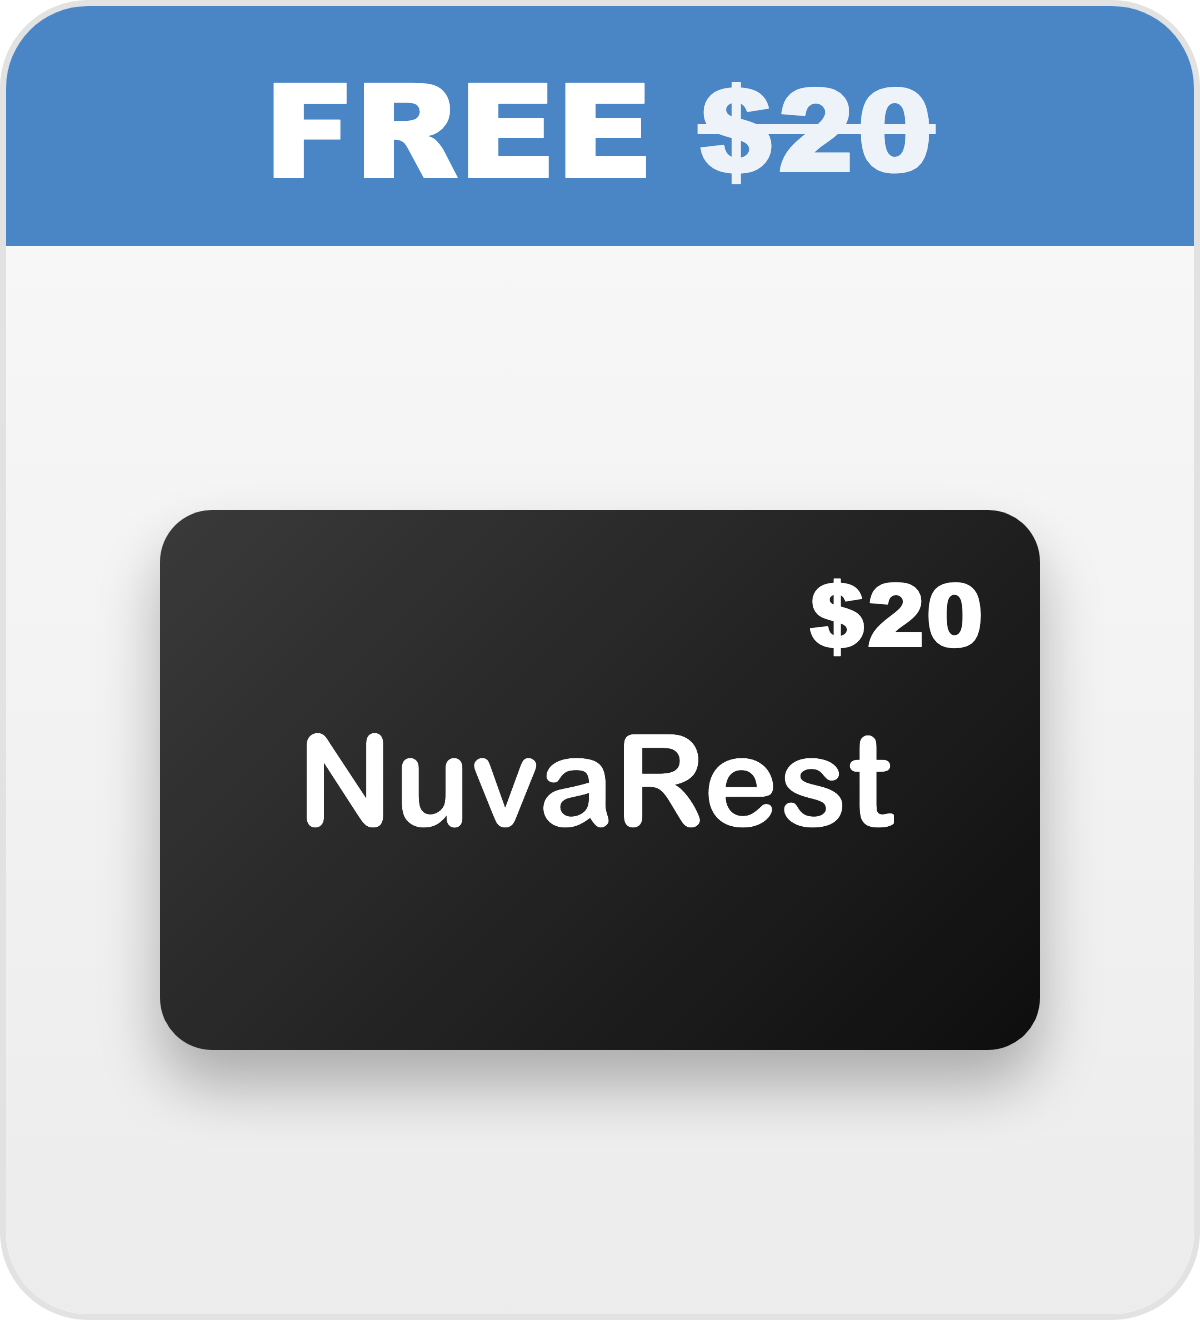
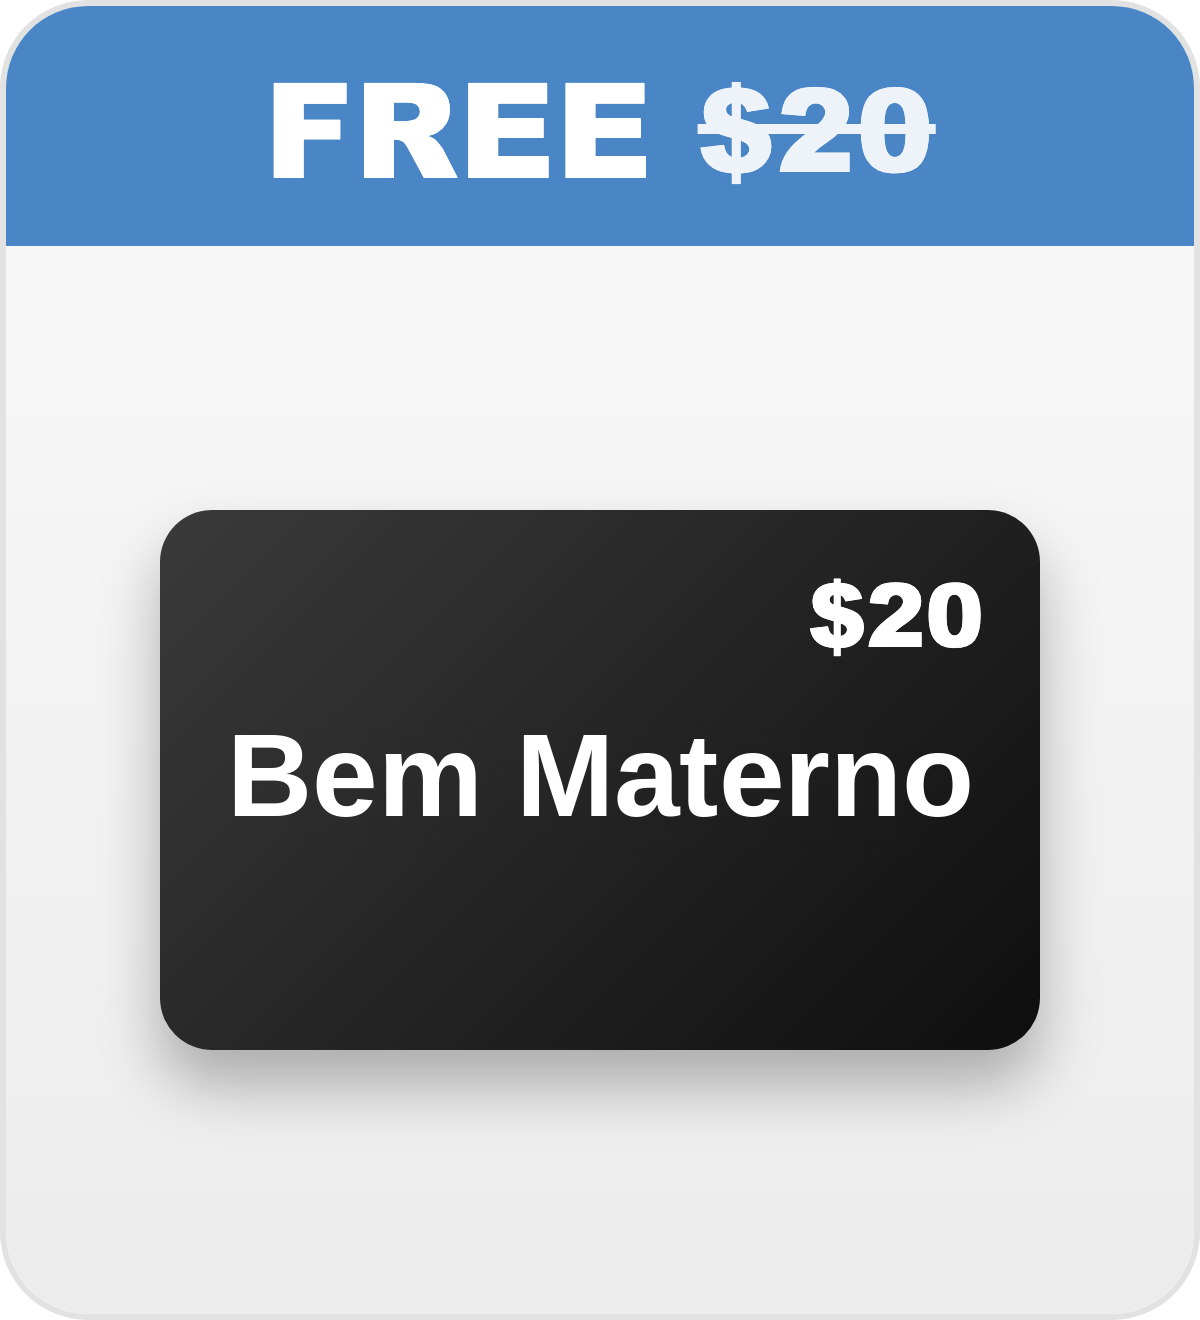
Faz os cadeados dos brindes abrirem conforme a quantidade
O script so mudava o atributo data-unlocked, mas o visual de desbloqueio
depende da classe quantity-gift--unlocked, que nunca era adicionada.
Tambem troca NuvaRest por Bem Materno na imagem do vale-presente.

Claude-Session: https://claude.ai/code/session_018Bb73NJhj3kT92AoWD3jmQ

Changed region(s): [[0.185, 0.5591, 0.8325, 0.6523]]

diff --git a/public/bem-materno/index.html b/public/bem-materno/index.html
@@ -5538,7 +5538,11 @@ US$ 349,90
   });
   function updateOffer() {
     selectedQuantity = Number($('quantity-breaks input:checked')?.value || 1);
-    $$('.quantity-gift').forEach(gift => gift.dataset.unlocked = String(selectedQuantity >= Number(gift.dataset.quantity)));
+    $$('.quantity-gift').forEach(gift => {
+      const unlocked = selectedQuantity >= Number(gift.dataset.quantity);
+      gift.dataset.unlocked = String(unlocked);
+      gift.classList.toggle('quantity-gift--unlocked', unlocked);
+    });
     $$('.sticky-atc .price__regular .price-item--regular').forEach(el => el.textContent = money(offerTotal(selectedQuantity)));
     $$('.sticky-atc .price__sale .price-item--sale').forEach(el => el.textContent = money(offerTotal(selectedQuantity)));
     $$('.sticky-atc .price__sale .price-item--regular').forEach(el => el.textContent = money(selectedQuantity * 17495));
